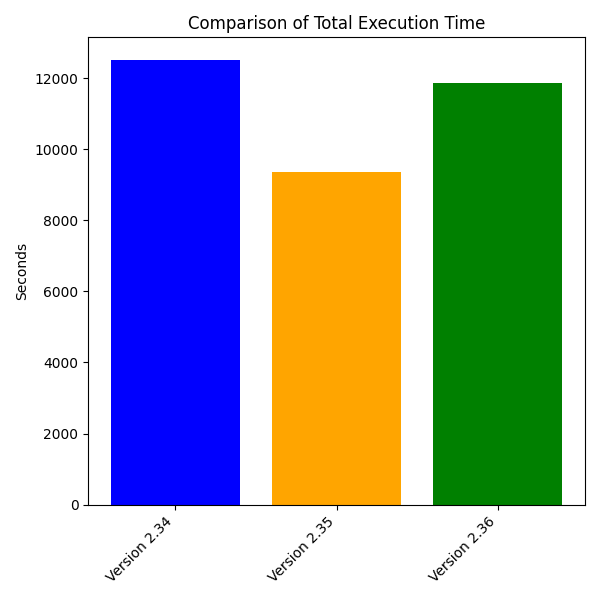
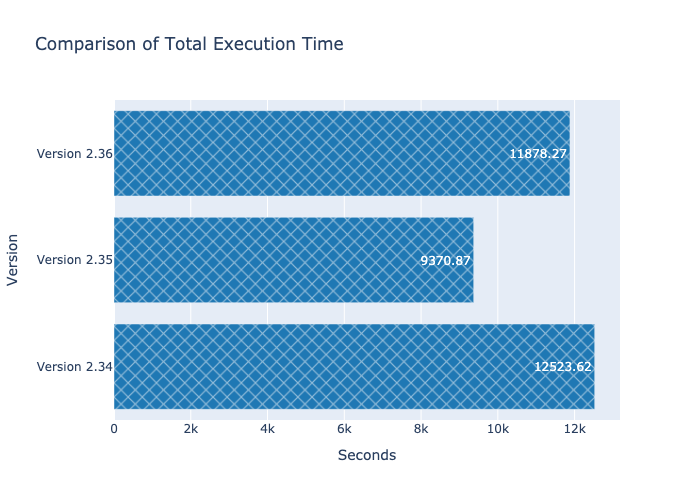
Color scheme updated in plotting scripts

diff --git a/scripts/visualizations/ResultsByVersionComparisonScript.py b/scripts/visualizations/ResultsByVersionComparisonScript.py
@@ -1,13 +1,9 @@
 import re
-import matplotlib.pyplot as plt
 import numpy as np
+import pandas as pd
+import plotly.graph_objects as go
 
 def parse_overall_statistics(file_path):
-    """
-    Reads the file at file_path and extracts the overall statistics from the
-    'Overall Statistics' section. Ignores the 'Total number of files processed' field.
-    Returns a dictionary mapping category names to numeric values.
-    """
     overall_stats = {}
     with open(file_path, 'r') as f:
         lines = f.readlines()
@@ -19,25 +15,20 @@ def parse_overall_statistics(file_path):
             found = True
             continue
         if found:
-            # Break on an empty line after the section
             if not line:
                 break
             if ':' in line:
-                # Split only on the first colon
                 parts = line.split(':', 1)
                 key = parts[0].strip()
                 value_str = parts[1].strip()
-                # Skip 'Total number of files processed'
                 if key == "Total number of files processed":
                     continue
-                # For total execution time, remove trailing "seconds"
                 if key == "Total execution time":
-                    value_str = value_str.split()[0]  # remove "seconds" or any trailing text
+                    value_str = value_str.split()[0]
                     try:
                         value = float(value_str)
                     except ValueError:
                         value = 0.0
-                # For incorrectness, remove '%' sign and parse float
                 elif key == "Incorrectness":
                     value_str = value_str.replace("%", "")
                     try:
@@ -45,7 +36,6 @@ def parse_overall_statistics(file_path):
                     except ValueError:
                         value = 0.0
                 else:
-                    # integer fields
                     try:
                         value = int(value_str)
                     except ValueError:
@@ -53,78 +43,110 @@ def parse_overall_statistics(file_path):
                 overall_stats[key] = value
     return overall_stats
 
-# Update with the actual file paths you want to compare
 file_paths = [
-    "testing_statistics-2.34.txt",
-    "testing_statistics-2.35.txt",
-    "testing_statistics-2.36.txt"
+    "../processing/testing_statistics-2.34.txt",
+    "../processing/testing_statistics-2.35.txt",
+    "../processing/testing_statistics-2.36.txt"
 ]
 
 versions = []
 overall_data = []
 
-# Parse each file's overall statistics
+# Parse statistics
 for fp in file_paths:
     stats = parse_overall_statistics(fp)
     overall_data.append(stats)
-    # Extract version info from the filename (e.g. "2.34" from "testing_statistics-2.34.txt")
     version_match = re.search(r'-(\d+\.\d+)', fp)
     version = version_match.group(1) if version_match else fp
     versions.append(version)
 
-# Categories for the first bar chart (excluding total execution time and "Incorrectness")
+# Categories excluding execution time
 categories_no_time = [
-    "Testing errors",
-    "Correct",
     "Incorrect",
+    "Correct",
+    "Non-executable test",
     "Lincheck bugs",
     "Timeouts"
 ]
 
-# Prepare a matrix for the first plot
-# Rows = each version, columns = categories_no_time
+# Create data matrix
 data_matrix = []
 for stats in overall_data:
-    row = [stats.get(cat, 0) for cat in categories_no_time]
+    row = [
+        stats.get("Incorrect", 0),
+        stats.get("Correct", 0),
+        stats.get("Testing errors", 0),
+        stats.get("Lincheck bugs", 0),
+        stats.get("Timeouts", 0),
+    ]
     data_matrix.append(row)
 
-# --- PLOT 1: Grouped Bar Chart (No "Incorrectness") ---
+data_matrix = np.array(data_matrix)
 
-x = np.arange(len(categories_no_time))  # group positions on x-axis
-width = 0.25  # width of each individual bar
+# Create DataFrame
+data = {
+    "version": [f"Version {v}" for v in versions],
+    "Incorrect": data_matrix[:, 0],
+    "Correct": data_matrix[:, 1],
+    "Non-executable test": data_matrix[:, 2],
+    "Lincheck bugs": data_matrix[:, 3],
+    "Timeouts": data_matrix[:, 4]
+}
 
-fig1, ax1 = plt.subplots(figsize=(10, 6))
+df = pd.DataFrame(data)
 
-colors = ['blue', 'orange', 'green']  # you can add more if needed
+# Define colors based on the corrected mapping
+metrics = ["Incorrect", "Correct", "Non-executable test", "Lincheck bugs", "Timeouts"]
+colors = ["#E69F00", "#009E73", "#999999", "#D55E00", "#CC79A7"]
+hatch_patterns = ["/", "x", ".", "-", "+"]
 
-for i, row in enumerate(data_matrix):
-    # Shift each version's bars slightly to avoid overlap
-    offset = (i - 1) * width
-    ax1.bar(x + offset, row, width, label=f"Version {versions[i]}", color=colors[i])
+# --- Stacked Horizontal Bar Chart (Excluding Time) ---
+fig1 = go.Figure()
 
-ax1.set_xticks(x)
-ax1.set_xticklabels(categories_no_time, rotation=45, ha='right')
-ax1.set_ylabel("Value")
-ax1.set_title("Comparison of Overall Testing Statistics (Excluding Time & Incorrectness)")
-ax1.legend()
+for metric, color, hatch in zip(metrics, colors, hatch_patterns):
+    fig1.add_trace(go.Bar(
+        y=df["version"],
+        x=df[metric],
+        name=metric,
+        orientation="h",
+        marker=dict(color=color, pattern_shape=hatch),  # Apply hatching
+        text=df[metric],
+        textposition="inside"
+    ))
 
-plt.tight_layout()
-plt.savefig("version_comparison_excluding_time.png")  # Save the first plot
-plt.show()
+fig1.update_layout(
+    barmode="stack",
+    title="Stacked Horizontal Bar Chart by Version (Excluding Time)",
+    xaxis_title="Count",
+    yaxis_title="Version",
+    legend_title="Metrics",
+    width=1000,  # Wider layout
+    height=400   # Shorter height
+)
 
-# --- PLOT 2: Bar Chart for Total Execution Time Only ---
+# Save plot as image
+fig1.write_image("version_comparison_excluding_time.png")
 
-fig2, ax2 = plt.subplots(figsize=(6, 6))
+# --- Bar Chart for Total Execution Time ---
+execution_times = [stats.get("Total execution time", 0) for stats in overall_data]
 
-time_values = [stats.get("Total execution time", 0) for stats in overall_data]
-x2 = np.arange(len(versions))
+fig2 = go.Figure()
+fig2.add_trace(go.Bar(
+    y=[f"Version {v}" for v in versions],
+    x=execution_times,
+    name="Execution Time",
+    orientation="h",
+    marker=dict(color="#1F78B4", pattern_shape="x"),  # Different hatching
+    text=execution_times,
+    textposition="inside"
+))
 
-ax2.bar(x2, time_values, color=colors[:len(versions)])
-ax2.set_xticks(x2)
-ax2.set_xticklabels([f"Version {v}" for v in versions], rotation=45, ha='right')
-ax2.set_ylabel("Seconds")
-ax2.set_title("Comparison of Total Execution Time")
+fig2.update_layout(
+    title="Comparison of Total Execution Time",
+    xaxis_title="Seconds",
+    yaxis_title="Version",
+    legend_title="Metrics"
+)
 
-plt.tight_layout()
-plt.savefig("version_comparison_total_execution_time.png")  # Save the second plot
-plt.show()
+# Save execution time plot
+fig2.write_image("version_comparison_total_execution_time.png")

diff --git a/scripts/visualizations/StatisticsPlottingScript.py b/scripts/visualizations/StatisticsPlottingScript.py
@@ -23,7 +23,7 @@ def parse_statistics_file(file_path):
                     'lincheck_bugs': 0,
                     'correct': 0,
                     'timeouts': 0,
-                    'testing_errors': 0
+                    'non-executable_tests': 0
                 }
             else:
                 parts = line.split(': ')
@@ -35,7 +35,7 @@ def parse_statistics_file(file_path):
                     if 'Number of files processed' in key:
                         data[current_task]['processed'] = value
                     elif 'Testing errors' in key:
-                        data[current_task]['testing_errors'] = value
+                        data[current_task]['non-executable_tests'] = value
                     elif 'Lincheck bugs' in key:
                         data[current_task]['lincheck_bugs'] = value
                     elif 'Timeouts' in key:
@@ -72,8 +72,8 @@ def plot_statistics(data, version):
         return
 
     tasks = list(data.keys())
-    category_names = ['Concurrency Violations', 'Lincheck Bugs', 'Correct', 'Timeouts', 'Testing Errors']
-    colors = ['green', 'black', 'red', 'white', 'gray']
+    category_names = ['Concurrency Violations', 'Lincheck Bugs', 'Correct', 'Timeouts', 'Non-executable tests']
+    colors = ["#E69F00", "#D55E00", "#009E73", "#CC79A7", "#999999"]
 
     # Determine grid dimensions for subplots (try a square layout)
     num_tasks = len(tasks)
@@ -97,7 +97,7 @@ def plot_statistics(data, version):
             stats['lincheck_bugs'],
             stats['correct'],
             stats['timeouts'],
-            stats['testing_errors']
+            stats['non-executable_tests']
         ]
         ax = axes[idx]
 
@@ -169,7 +169,7 @@ def plot_statistics(data, version):
 
 
 if __name__ == "__main__":
-    file_path = "testing_statistics.txt"  # Update this if the file is located elsewhere
+    file_path = "../processing/testing_statistics-2.38-eighth-less-invocations.txt"  # Update this if the file is located elsewhere
     version_match = re.search(r'-(\d+\.\d+.*)\.txt$', file_path)
     version = version_match.group(1) if version_match else "unknown"
 
